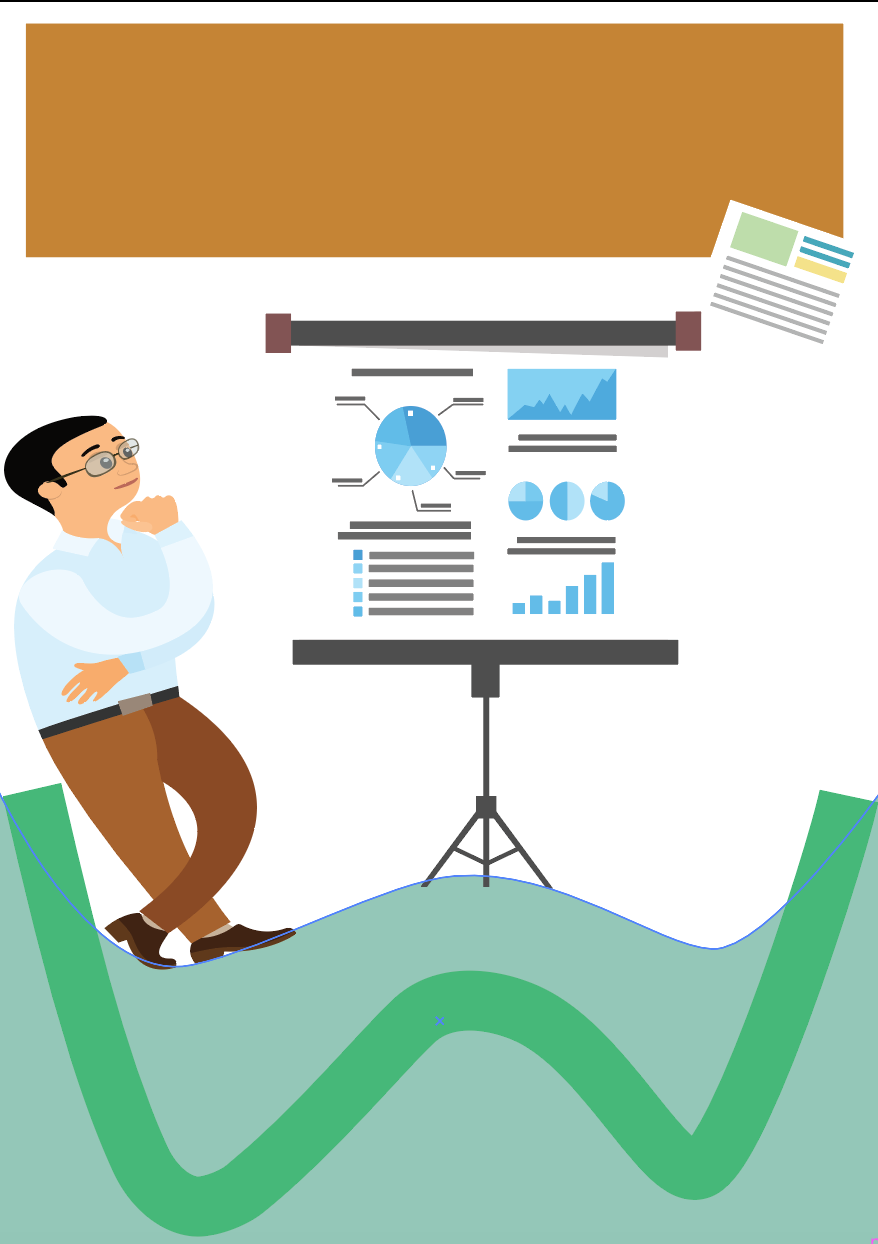
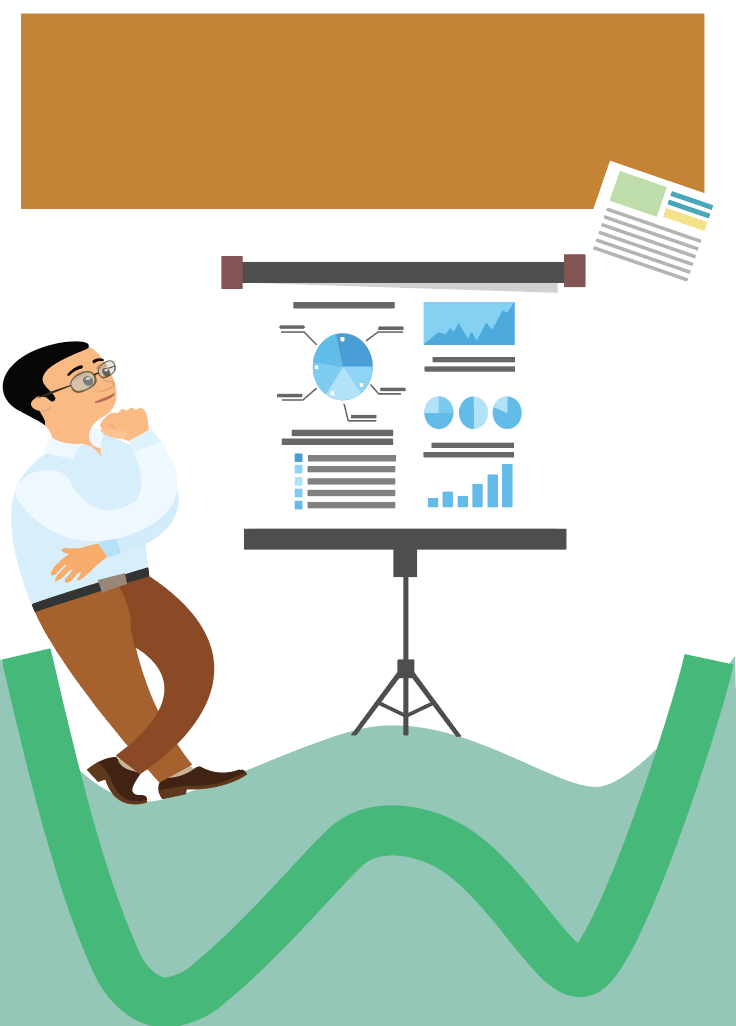
register front end

diff --git a/client/src/components/RegisterContainer/index.js b/client/src/components/RegisterContainer/index.js
@@ -1,6 +1,7 @@
 import React from "react";
 import "./RegisterContainer.css";
-import planerImage from '../../images/planerImage.png'
+import PlanerImage from '../../images/PlanerImage.png';
+import AttendeeImage from '../../images/AttendeeImage.png'
 function RegisterContainer() 
 {
     return(
@@ -8,10 +9,10 @@ function RegisterContainer()
 <div className="container">
 <div className="row">
   <div className="col">
-  <img className="card__image" id="cardImage3" src={planerImage} alt=""/>
+  <img className="card__image" id="cardImage3" src={PlanerImage} alt=""/>
   </div>
   <div className="col">
-  <img className="card__image" id="cardImage3" src={planerImage} alt=""/>
+  <img className="card__image" id="cardImage3" src={AttendeeImage} alt=""/>
   </div>
 </div>
 </div>
